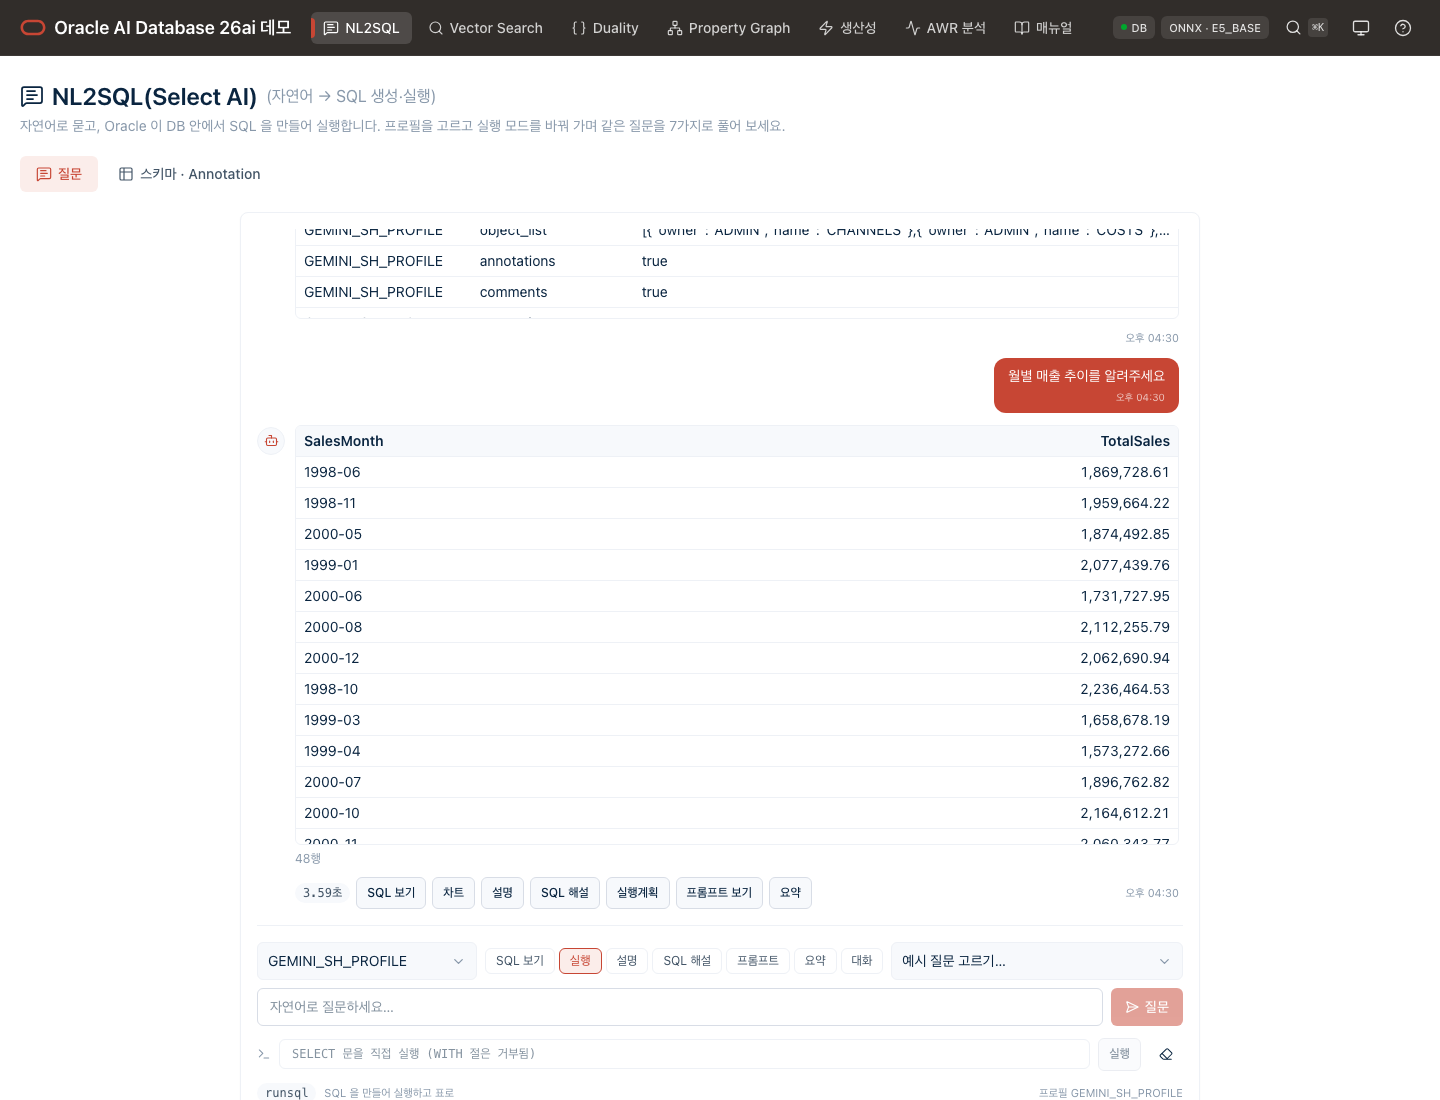
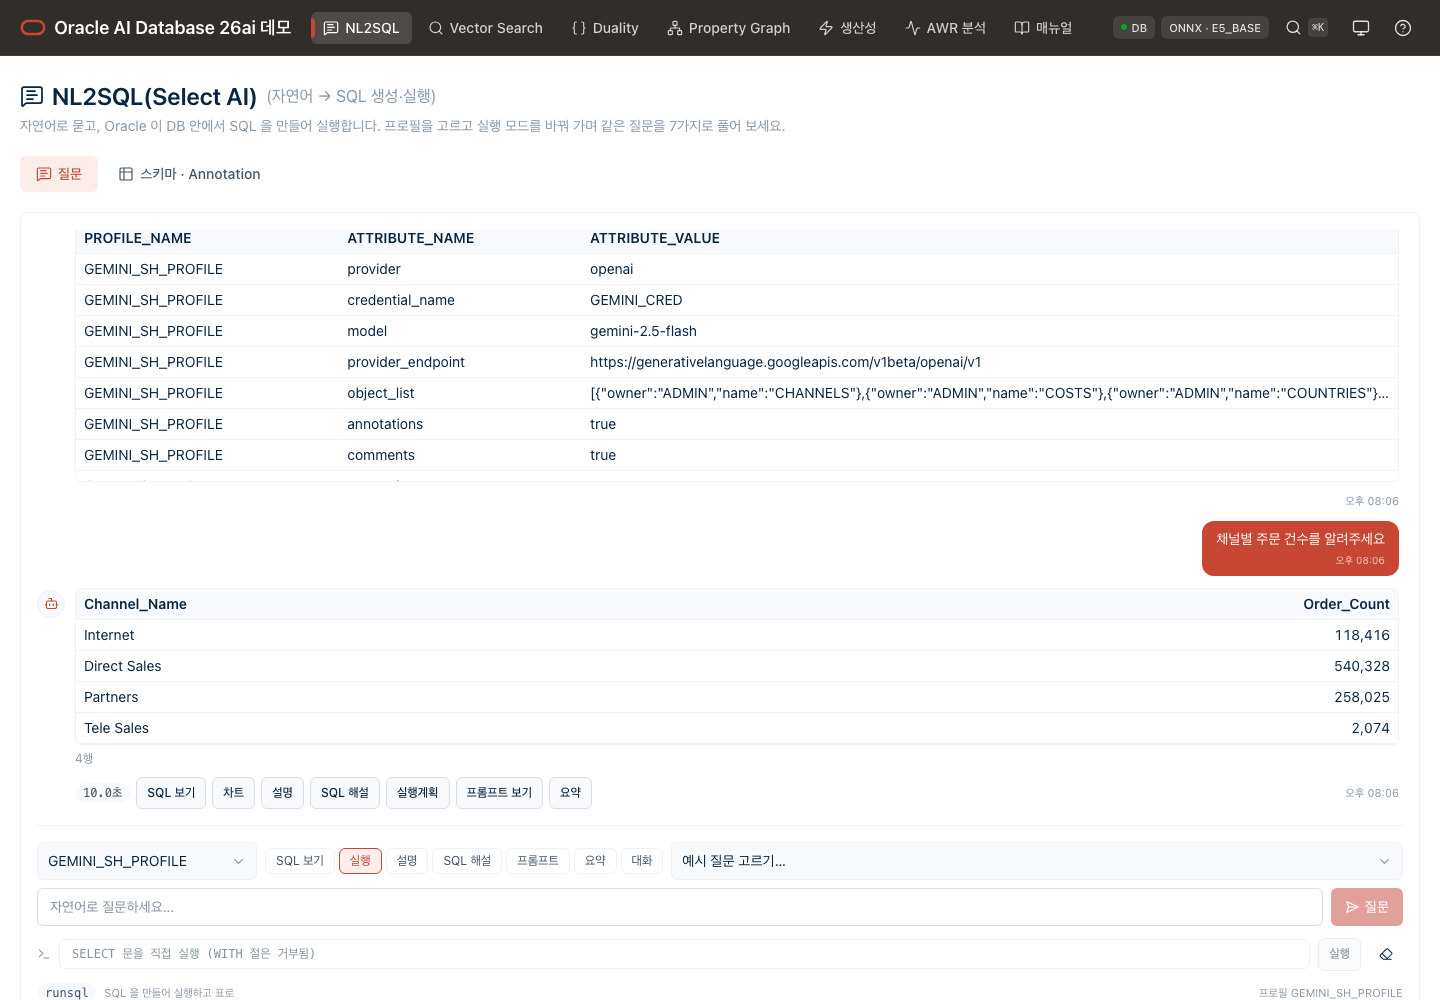
fix(ui): NL2SQL 질문·Vector 검색 스레드를 전체 폭으로 — 서브탭 간 폭 통일 (확인 포인트 ④ 재확정)
- 첫 서브탭만 960/1100px 중앙 정렬이라 두 번째 서브탭·다른 페이지(1400 컨테이너)보다 좁아 보였다.
  사용자 지시(2026-09-05): "화면에 꽉 찬 느낌, 모든 윈도우 폭을 일관되게". max-w 제거.
- 말풍선은 80% 제한을 유지해 가독성은 그대로. 설계서 05 §10 ④·R1, 06 §5.12·§10, 핸드오프 §4-9 갱신.
- final_nl2sql_*·final_vector_* 캡처 4장 갱신.

diff --git a/web/src/pages/vector/VectorSearch.vue b/web/src/pages/vector/VectorSearch.vue
@@ -41,7 +41,7 @@ const readonly = computed(() => v.activeSession !== -1)
 </script>
 
 <template>
-  <div class="w-full max-w-[1100px] mx-auto flex flex-col gap-4">
+  <div class="w-full flex flex-col gap-4">
     <div v-if="v.docsLoaded && !v.docs.length" class="px-3 py-2.5 rounded-md text-sm" style="background: var(--accent-warm-soft); border-left: 3px solid var(--accent-warm); color: var(--text-primary);">아직 올린 문서가 없습니다 — 「문서 · 업로드」에서 PDF 를 올리면 청킹 → 임베딩 → 저장이 자동으로 돕니다.</div>
     <div v-if="v.configError" class="px-3 py-2.5 rounded-md text-sm" style="background: var(--accent-negative-soft); border-left: 3px solid var(--accent-negative); color: var(--text-primary);">{{ v.configError }}</div>
 

diff --git a/web/src/pages/nl2sql/Nl2sqlAsk.vue b/web/src/pages/nl2sql/Nl2sqlAsk.vue
@@ -37,7 +37,7 @@ const asMsg = (m: unknown) => m as Nl2sqlMessage
 </script>
 
 <template>
-  <div class="w-full max-w-[960px] mx-auto flex flex-col gap-4">
+  <div class="w-full flex flex-col gap-4">
     <!-- 첫 질문 전에만: Select AI 의 차별성 -->
     <Card v-if="!s.asked" title="Oracle Select AI — 자연어로 데이터를 질의하다" :icon="MessageSquareText" compact>
       <VersusBox left-title="기존 방식" left-desc="개발자가 SQL 을 직접 작성. 스키마 이해 필수. 앱마다 쿼리 개발."

diff --git a/docs/SESSION_HANDOFF.md b/docs/SESSION_HANDOFF.md
@@ -256,7 +256,7 @@ scripts/check-secrets.sh                # 커밋 전 필수
 
 | 만든 것 | 위치 |
 |---|---|
-| 페이지 + 서브탭 2(`?sub=ask\|schema`). 스레드·컴포저는 **폭 960 중앙 정렬**(확인 포인트 ④) | `web/src/pages/Nl2sql.vue` · `pages/nl2sql/{Nl2sqlAsk,Nl2sqlAnswer,Nl2sqlSchema}.vue` |
+| 페이지 + 서브탭 2(`?sub=ask\|schema`). 스레드·컴포저는 ~~폭 960 중앙 정렬~~ → **전체 폭**(확인 포인트 ④, 2026-09-05 사용자 지시로 변경: "첫 탭만 좁아 보인다") | `web/src/pages/Nl2sql.vue` · `pages/nl2sql/{Nl2sqlAsk,Nl2sqlAnswer,Nl2sqlSchema}.vue` |
 | 스토어 — 프로필(기본 GROQ_SH_PROFILE)·실행 모드·스레드·스키마·Annotation. 레거시 sendQuestion/executeAction/processResult 를 그대로 옮기고 결과는 `Rows` 로 | `web/src/stores/nl2sql.ts` · `lib/nl2sql.ts`(ACTIONS·ACTION_BUTTONS·예시 질문) · `lib/annotations.ts`(SH 세트 — app.js 에서 이전) |
 | 어시스턴트 메시지 = 카드 없는 블록: 프로필 속성 표 · 생성 SQL(`SqlBlock`) · 결과 표(`ResultTable`) · **차트(Bar/Line/Donut, 세그먼트 전환)** · 서술(md-body) · 프롬프트(text) · 실행계획 · 후속 버튼 행(캐시된 것은 primary) | `Nl2sqlAnswer.vue` |
 | `ChatThread` 에 `user`/`assistant` 스코프 슬롯 + `minHeight` — 결과 블록을 꽂는 자리. 5-6 도 같은 방식 | `components/demo/ChatThread.vue` |
@@ -266,7 +266,7 @@ scripts/check-secrets.sh                # 커밋 전 필수
 | 라우터 분리 5호 `app/routers/nl2sql.py`(8 라우트 + 모델 3 + VALID_ACTIONS). routes.py 에는 health·llm/providers·vector·guide 27개만 남았다 | |
 | 캡처 3장 `captures/db26ai_nl2sql_{ask_light,ask_dark,schema_light}.png` | 확인 포인트 ①·④ 근거 |
 
-**사용자 확인 포인트 ①·④ 확정 (2026-09-05, 사용자 "계속 진행" = 기본안)** — ① 세그먼트 한 줄, ④ 폭 960. B 셀렉트 분기와 캡처는 삭제(git 125bfdd 에 남음).
+**사용자 확인 포인트 ①·④ 확정 (2026-09-05)** — ① 세그먼트 한 줄("계속 진행" = 기본안). ④ 는 처음 960 중앙 정렬로 갔다가 **사용자 지시로 전체 폭으로 변경** — 서브탭마다 폭이 다르면 첫 탭만 좁아 보인다. NL2SQL 질문·Vector 검색 모두 다른 화면과 같은 1400 컨테이너를 채운다. B 셀렉트 분기와 캡처는 삭제(git 125bfdd 에 남음).
 
 **5-6 을 시작할 때 (Vector, ★ Fable — 상태 의존 최상위)**: 스토어를 먼저 설계한다(세션·모드·임베딩 설정이 서로 참조 — R2). `composables/useSse.ts`(fetch+ReadableStream) 는 여기서 만든다 —
 업로드만 SSE 다. 서브탭 `search|docs|store|embedding`. 검색은 `SessionTabs` › `ChatThread`(답변 + `ChunkCard` 목록 + 시각화) + 컴포저 슬롯에 검색모드 `Segmented` 4 · top_k · LLM. compare 모드는 `CompareView`.

diff --git a/docs/design/06_디자인_시스템.md b/docs/design/06_디자인_시스템.md
@@ -252,7 +252,7 @@ default/primary/positive/negative/warm 에 **`info`**(`--accent-info` 12%)와 **
 두 결과가 같은 행수·같은 값이면 상단에 얇은 `positive-soft` 배너 "두 결과가 동일합니다 (10행)". 다르면 warm 배너 + 차이 요약. **이 배너가 이 앱의 서사를 한 줄로 말한다.**
 
 ### 5.8 ChatThread · ChatComposer ★
-- 스레드 폭 `max-w-[960px]`. 사용자 말풍선: 우측, `--accent-primary` 배경 흰 글자, radius 12(현 `bubble-user` 계승). 어시스턴트 결과: 좌측, **카드가 아니라 카드 없는 블록**(SqlBlock + ResultTable + 배지 행) — 말풍선 안에 카드를 넣으면 이중 테두리가 된다.
+- 스레드 폭 = 페이지 전체 폭(1400 컨테이너). ~~`max-w-[960px]` 중앙 정렬~~ 은 2026-09-05 사용자 지시로 철회 — 서브탭마다 폭이 달라 첫 탭만 좁아 보였다. 사용자 말풍선: 우측 최대 80%, `--accent-primary` 배경 흰 글자, radius 12(현 `bubble-user` 계승). 어시스턴트 결과: 좌측, **카드가 아니라 카드 없는 블록**(SqlBlock + ResultTable + 배지 행) — 말풍선 안에 카드를 넣으면 이중 테두리가 된다.
 - 결과 블록 하단 액션 행: `ghost sm` 버튼들(실행계획 · 차트 · SQL 복사 · 원문).
 - 컴포저(하단 고정): 1행 = 옵션 툴바(프로필 셀렉트 · 실행모드 세그먼트 · 예시 셀렉트) 12px, 2행 = 입력(`--bg-surface`, 테두리 strong, radius 6) + primary 버튼. 로딩 중 버튼 "처리 중…" + 입력 비활성.
 
@@ -338,4 +338,4 @@ investhub 골격만: `md`(768) 미만에서 상단 메뉴 → 햄버거 + `Mobil
 C·D·E 는 제가 고쳐서 다시 드린다. **사용자는 A·B 만 판단하면 된다.**
 
 **사용자 확인 포인트 (05 §10 과 동일 번호)**
-① 실행 모드 7종 배치 — 5-5 **✅ 확정(세그먼트)**  ② SQL 블록 다크 유지 — 5-1 **✅ 확정(유지)**  ③ 헤더 색 — 5-0 **✅ 확정(차콜)**  ④ 채팅 스레드 폭 — 5-5 **✅ 확정(960)**  ⑤ 매뉴얼 `?` 진입 — 5-7 **✅ 확정(`?` → /manual, 🔍 = ⌘K)**
+① 실행 모드 7종 배치 — 5-5 **✅ 확정(세그먼트)**  ② SQL 블록 다크 유지 — 5-1 **✅ 확정(유지)**  ③ 헤더 색 — 5-0 **✅ 확정(차콜)**  ④ 채팅 스레드 폭 — 5-5 **✅ 재확정(전체 폭 — 960 철회)**  ⑤ 매뉴얼 `?` 진입 — 5-7 **✅ 확정(`?` → /manual, 🔍 = ⌘K)**
